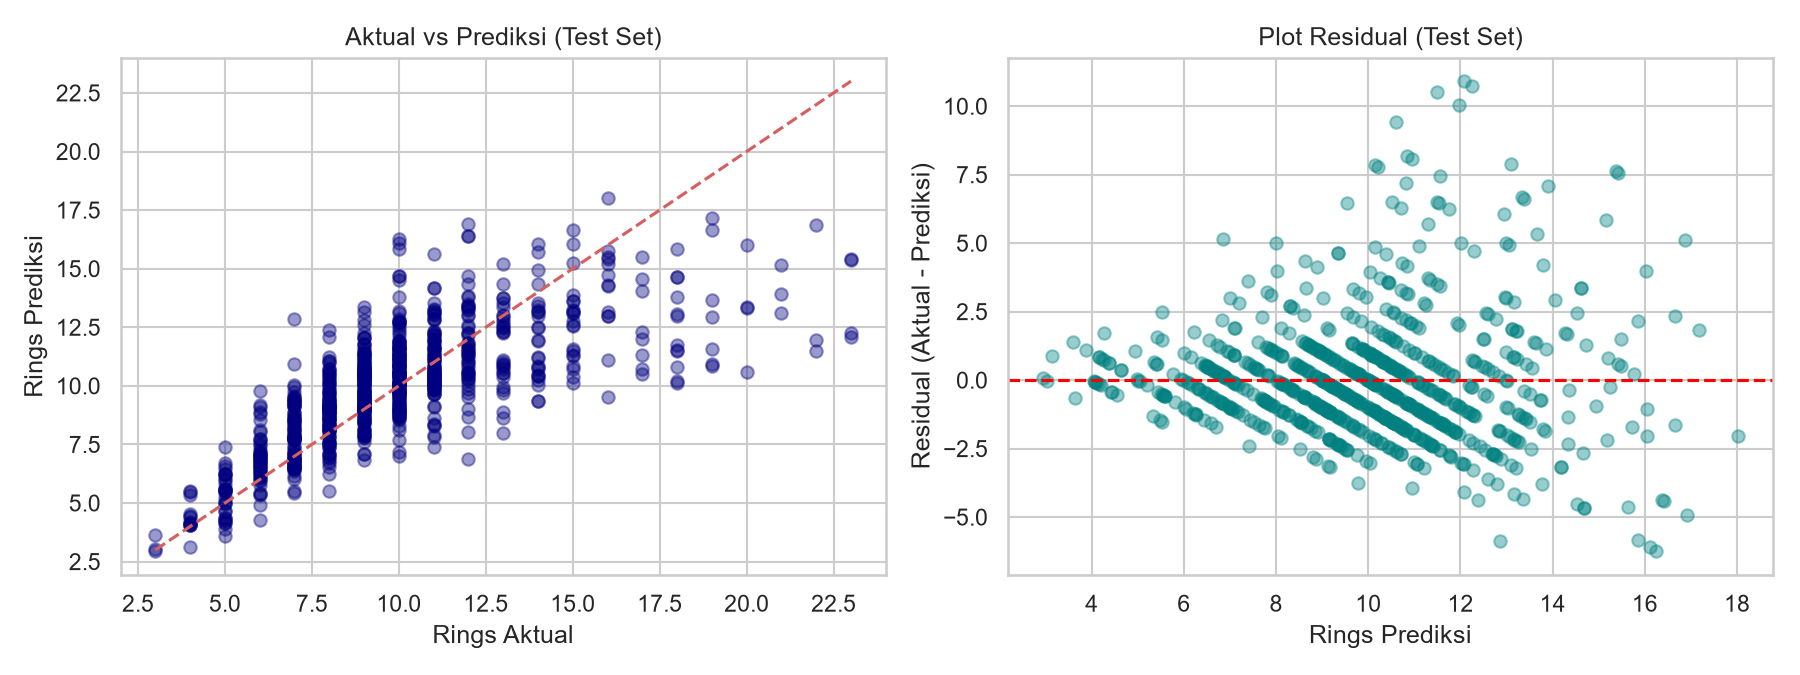
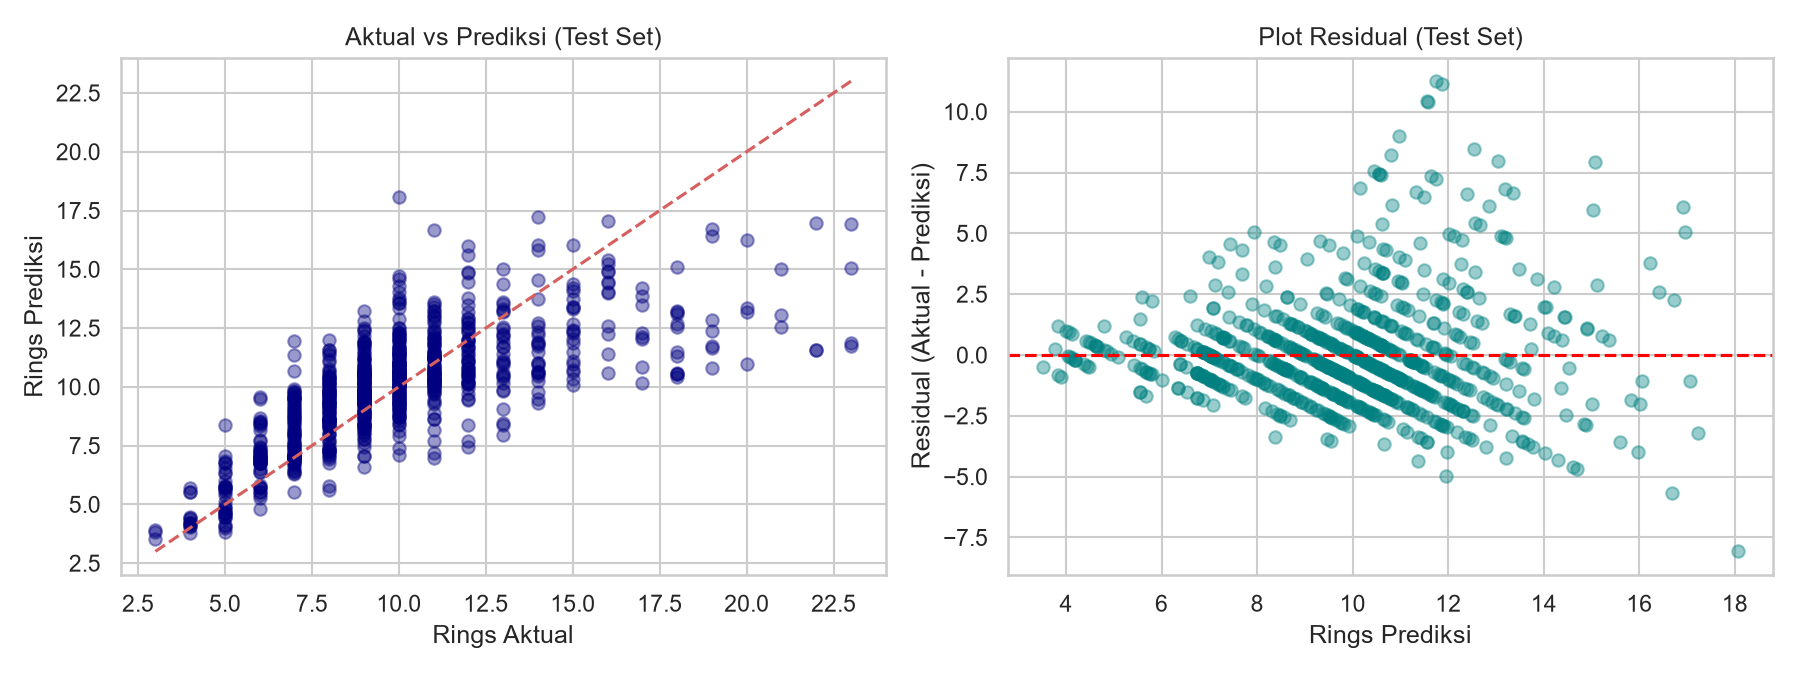
Update modular loader/preprocessor, model artifact, evidence plots, and docs

diff --git a/src/analysis/preprocess.py b/src/analysis/preprocess.py
@@ -1,79 +1,64 @@
-import pandas as pd
 from sklearn.compose import ColumnTransformer
 from sklearn.impute import SimpleImputer
 from sklearn.pipeline import Pipeline
 from sklearn.preprocessing import OneHotEncoder, StandardScaler
 
-NAMA_KOLOM = [
-    "Sex",
-    "Length",
-    "Diameter",
-    "Height",
-    "Whole weight",
-    "Shucked weight",
-    "Viscera weight",
-    "Shell weight",
-    "Rings",
-]
 
+def build_preprocessor(num_cols, cat_cols):
+    """
+    Membuat preprocessing untuk fitur numerik
+    dan kategorikal pada dataset Abalone.
 
-def ambil_data_manual():
-    lokasi_file = None
-    try:
-        from google.colab import files
-        diupload = files.upload()
-        if diupload:
-            lokasi_file = list(diupload.keys())[0]
-    except ImportError:
-        import tkinter as tk
-        from tkinter import filedialog
-        root = tk.Tk()
-        root.withdraw()
-        root.attributes("-topmost", True)
-        lokasi_file = filedialog.askopenfilename(
-            title="Pilih file dataset Abalone",
-            filetypes=[
-                ("File Dataset", "*.xlsx *.xls *.csv *.data"),
-                ("Semua File", "*.*"),
-            ],
+    Parameters
+    ----------
+    num_cols : list
+        Daftar nama kolom numerik.
+
+    cat_cols : list
+        Daftar nama kolom kategorikal.
+
+    Returns
+    -------
+    ColumnTransformer
+        Objek preprocessing untuk digunakan
+        dalam Pipeline machine learning.
+    """
+
+    transformers = []
+
+    # Preprocessing fitur numerik
+    if num_cols:
+        numeric_transformer = Pipeline(
+            steps=[
+                ("imputer", SimpleImputer(strategy="median")),
+                ("scaler", StandardScaler()),
+            ]
         )
-        root.destroy()
 
-    if not lokasi_file:
-        raise FileNotFoundError("File belum dipilih.")
+        transformers.append(
+            ("numeric", numeric_transformer, num_cols)
+        )
 
-    if lokasi_file.endswith((".xlsx", ".xls")):
-        xls = pd.ExcelFile(lokasi_file)
-        sheet = "Dataset_Abalone" if "Dataset_Abalone" in xls.sheet_names else xls.sheet_names[0]
-        df = pd.read_excel(lokasi_file, sheet_name=sheet)
-    elif lokasi_file.endswith(".csv"):
-        df = pd.read_csv(lokasi_file)
-    else:
-        df = pd.read_csv(lokasi_file, header=None, names=NAMA_KOLOM)
+    # Preprocessing fitur kategorikal
+    if cat_cols:
+        categorical_transformer = Pipeline(
+            steps=[
+                ("imputer", SimpleImputer(strategy="most_frequent")),
+                ("encoder", OneHotEncoder(handle_unknown="ignore")),
+            ]
+        )
 
-    df = df.rename(columns={c: c.strip() for c in df.columns})
-    return df
+        transformers.append(
+            ("categorical", categorical_transformer, cat_cols)
+        )
 
+    if not transformers:
+        raise ValueError(
+            "Daftar fitur numerik dan kategorikal tidak boleh kosong."
+        )
 
-def buat_preprocessor(fitur):
-    kolom_kategori = [k for k in ["Sex"] if k in fitur]
-    kolom_angka = [k for k in fitur if k not in kolom_kategori]
+    preprocessor = ColumnTransformer(
+        transformers=transformers
+    )
 
-    pipa_angka = Pipeline(steps=[
-        ("imputer", SimpleImputer(strategy="median")),
-        ("scaler", StandardScaler()),
-    ])
-
-    pipa_kategori = Pipeline(steps=[
-        ("imputer", SimpleImputer(strategy="most_frequent")),
-        ("ohe", OneHotEncoder(handle_unknown="ignore")),
-    ])
-
-    daftar = []
-    if kolom_angka:
-        daftar.append(("angka", pipa_angka, kolom_angka))
-    if kolom_kategori:
-        daftar.append(("kategori", pipa_kategori, kolom_kategori))
-
-    preprocessor = ColumnTransformer(transformers=daftar)
-    return preprocessor, kolom_angka, kolom_kategori
+    return preprocessor

diff --git a/src/analysis/train.py b/src/analysis/train.py
@@ -1,5 +1,6 @@
 import json
 import os
+import sys
 import joblib
 import numpy as np
 from sklearn.ensemble import GradientBoostingRegressor, RandomForestRegressor
@@ -8,7 +9,12 @@ from sklearn.metrics import mean_absolute_error, r2_score, root_mean_squared_err
 from sklearn.model_selection import KFold, cross_validate, train_test_split
 from sklearn.pipeline import Pipeline
 
-from preprocess import ambil_data_manual, buat_preprocessor
+BASE_DIR = os.path.dirname(os.path.abspath(__file__))
+if BASE_DIR not in sys.path:
+    sys.path.insert(0, BASE_DIR)
+
+from data_loader import load_data
+from preprocess import build_preprocessor
 
 
 def hitung_metrik(y_true, y_pred):
@@ -27,7 +33,8 @@ def main():
     os.makedirs("src/app/model", exist_ok=True)
     os.makedirs("docs/evidence", exist_ok=True)
 
-    df = ambil_data_manual()
+    lokasi_data = os.path.join(root_dir, "Dataset_Abalone_Lengkap.xlsx")
+    df = load_data(lokasi_data)
     target = "Rings"
     X = df.drop(columns=[target])
     y = df[target]
@@ -36,7 +43,8 @@ def main():
         X, y, test_size=0.20, random_state=42
     )
 
-    _, kolom_angka, kolom_kategori = buat_preprocessor(list(X.columns))
+    kolom_kategori = ["Sex"]
+    kolom_angka = [c for c in X.columns if c not in kolom_kategori]
 
     baseline_val = float(y_train.mean())
     pred_baseline = np.full(shape=len(y_test), fill_value=baseline_val)
@@ -58,7 +66,7 @@ def main():
 
     for nama, estimator in model_kandidat.items():
         pipa = Pipeline(steps=[
-            ("preprocess", buat_preprocessor(list(X.columns))[0]),
+            ("preprocess", build_preprocessor(kolom_angka, kolom_kategori)),
             ("model", estimator),
         ])
         hasil_cv = cross_validate(

diff --git a/src/analysis/data_loader.py b/src/analysis/data_loader.py
@@ -1,0 +1,35 @@
+import os
+import pandas as pd
+
+NAMA_KOLOM = [
+    "Sex",
+    "Length",
+    "Diameter",
+    "Height",
+    "Whole weight",
+    "Shucked weight",
+    "Viscera weight",
+    "Shell weight",
+    "Rings",
+]
+
+
+def load_data(lokasi_file):
+    if not lokasi_file or not os.path.exists(lokasi_file):
+        raise FileNotFoundError(f"File dataset tidak ditemukan: {lokasi_file}")
+
+    if lokasi_file.endswith((".xlsx", ".xls")):
+        xls = pd.ExcelFile(lokasi_file)
+        sheet = (
+            "Dataset_Abalone"
+            if "Dataset_Abalone" in xls.sheet_names
+            else xls.sheet_names[0]
+        )
+        df = pd.read_excel(lokasi_file, sheet_name=sheet)
+    elif lokasi_file.endswith(".csv"):
+        df = pd.read_csv(lokasi_file)
+    else:
+        df = pd.read_csv(lokasi_file, header=None, names=NAMA_KOLOM)
+
+    df = df.rename(columns={c: c.strip() for c in df.columns})
+    return df

diff --git a/docs/analysis-report.md b/docs/analysis-report.md
@@ -1,35 +1,67 @@
 # Laporan Analisis dan Pemodelan Prediksi Rings Abalone
 
 ## 1. Tujuan, Sumber Data, dan Ringkasan Dataset
-- **Rumusan masalah**: Memprediksi jumlah cincin cangkang abalone (`Rings`) sebagai variabel respon kuantitatif berdasarkan ukuran fisik dan bobot tubuh abalone.
-- **Sumber data dan akses**: Data bersumber dari dataset Abalone (`Dataset_Abalone_Lengkap.xlsx`, merujuk pada UCI Machine Learning Repository Abalone Dataset berlisensi CC BY 4.0) yang diakses pada 21 November 2026 melalui `https://archive.ics.uci.edu/dataset/1/abalone` dan berkas lokal proyek.
-- **Deskripsi dan ringkasan EDA**: Dataset terdiri atas **4.177 baris** dan **9 kolom** tanpa nilai hilang maupun baris duplikat. Berdasarkan eksplorasi awal, terdapat 2 baris dengan nilai `Height = 0`, sedangkan korelasi linear tertinggi terhadap `Rings` ditunjukkan oleh `Shell weight` sebesar **0,63**.
-- **Perlakuan `Height = 0` dan skala data**: Dua baris dengan `Height = 0` hanya mencakup 2 dari 4.177 baris (sekitar **0,05%**), sehingga dibiarkan apa adanya karena proporsinya kecil dan tidak memberikan dampak besar pada pemodelan. Selain itu, nilai fitur kontinu pada dataset mengikuti skala standar UCI (sudah dibagi `200`), sehingga data yang dikirim ke API juga perlu menggunakan skala yang sama agar perbandingan dan prediksi tetap konsisten.
+- **Rumusan masalah**: Membangun model regresi untuk memprediksi jumlah cincin cangkang abalone (`Rings`) sebagai variabel respon kuantitatif berdasarkan karakteristik jenis kelamin dan ukuran fisik tubuh abalone. Perkiraan umur biologis abalone umumnya dihitung sebagai $\text{Rings} + 1{,}5$ tahun.
+- **Sumber data dan akses**: Data bersumber dari dataset Abalone (`Dataset_Abalone_Lengkap.xlsx`, merujuk pada *UCI Machine Learning Repository — Abalone Dataset* berlisensi CC BY 4.0) yang diakses pada 21 November 2026 melalui `https://archive.ics.uci.edu/dataset/1/abalone` serta berkas lokal pada direktori utama repositori.
+- **Struktur dan ringkasan EDA**:
+  - Dataset terdiri atas **4.177 baris** pengamatan dan **9 kolom**, terdiri dari **1 variabel target** (`Rings`, bilangan bulat) dan **8 variabel prediktor**:
+    - **Fitur kategorikal (1)**: `Sex` (`M` = *Male*, `F` = *Female*, `I` = *Infant*).
+    - **Fitur numerik (7)**: `Length`, `Diameter`, `Height`, `Whole weight`, `Shucked weight`, `Viscera weight`, dan `Shell weight`.
+  - Tidak ditemukan nilai hilang (*missing values*) maupun baris duplikat pada dataset mentah.
+  - Korelasi linear (*Pearson*) tertinggi terhadap variabel target `Rings` ditunjukkan oleh **`Shell weight` sebesar `0,63`**, diikuti oleh fitur dimensi fisik dan bobot lainnya yang juga berkorelasi positif kuat antar-prediktor (indikasi multikolinearitas tinggi pada fitur ukuran dan berat).
+- **Perlakuan `Height = 0` dan skala data**:
+  - Berdasarkan eksplorasi awal pada `eda_v2.ipynb`, terdapat **2 baris** dengan nilai `Height = 0`. Baris tersebut tetap dipertahankan apa adanya karena hanya mencakup 2 dari 4.177 baris (sekitar **0,05%**), sehingga proporsinya sangat kecil dan tidak memberikan dampak signifikan terhadap parameter maupun performa model.
+  - Seluruh fitur kontinu pada dataset UCI berada pada skala yang telah dinormalisasi/dibagi `200`. Oleh karena itu, data input yang dikirim ke layanan API wajib menggunakan skala serta nama kolom yang persis sama dengan skema pada `src/app/model/features.json` dan `docs/interface-contract.md`.
 
 ## 2. Pembagian Data dan Pencegahan Data Leakage
-- Dataset dibagi menjadi data latih (`train`) dan data uji (`test`) dengan proporsi **80:20** (`random_state=42`), dan data uji tidak dipakai selama proses pemilihan model maupun penentuan alur akhir.
-- Seluruh tahapan praproses (`SimpleImputer`, `StandardScaler`, dan `OneHotEncoder` di dalam `ColumnTransformer`) digabung ke dalam `Pipeline` bersama model dengan pengaturan `handle_unknown="ignore"`, sementara `Rings` dipisahkan agar tidak ikut menjadi fitur.
+- **Skema pemisahan data**: Dataset dipisahkan secara acak menjadi **data latih (*train set*) sebesar 80% (`3.341` baris)** dan **data uji (*test set*) sebesar 20% (`836` baris)** menggunakan `train_test_split(..., test_size=0.20, random_state=42)`. Data uji dikunci sepenuhnya dan tidak pernah dilibatkan dalam proses eksplorasi lanjutan, pemilihan fitur, praproses, maupun seleksi model.
+- **Integrasi `Pipeline` dan `ColumnTransformer`**:
+  - Seluruh langkah praproses disusun secara modular di dalam `build_preprocessor(num_cols, cat_cols)` (`src/analysis/preprocess.py`) yang mengembalikan objek `ColumnTransformer`:
+    - **Cabang numerik (`num_cols`)**: `SimpleImputer(strategy="median")` diikuti `StandardScaler()`.
+    - **Cabang kategorikal (`cat_cols`)**: `SimpleImputer(strategy="most_frequent")` diikuti `OneHotEncoder(handle_unknown="ignore")`.
+  - Objek `ColumnTransformer` dibungkus bersama estimator ke dalam `sklearn.pipeline.Pipeline`, sehingga parameter imputasi dan penskalaan hanya dihitung (*fit*) pada *fold* pelatihan di setiap iterasi *cross-validation* dan pada `X_train` saat pelatihan akhir. Variabel target `Rings` dipisahkan sejak awal agar tidak terjadi kebocoran fitur.
 
 ## 3. Baseline dan Seleksi Model Kandidat
-- **Baseline**: Prediksi rata-rata `Rings` dari data latih dipakai sebagai patokan dasar (*benchmark*) untuk menilai peningkatan performa model regresi.
+- **Model *baseline***: Sebagai patokan dasar (*benchmark*), digunakan model konstan sederhana berupa nilai rata-rata `Rings` dari data latih (`y_train.mean()`) untuk memprediksi seluruh pengamatan pada data uji.
 - **Evaluasi validasi silang (5-fold CV pada data latih)**:
-  - `Gradient Boosting`: RMSE CV `2.1436`, MAE CV `1.5180`.
-  - `Random Forest`: RMSE CV `2.1548`.
-  - `Ridge`: RMSE CV `2.2287`.
-- `Gradient Boosting` dipilih karena mencatat galat validasi silang paling rendah di antara seluruh kandidat, kemudian dilatih ulang pada seluruh data latih sebelum diuji ke *test set*.
+  - Tiga model regresi kandidat dibandingkan menggunakan `KFold(n_splits=5, shuffle=True, random_state=42)` dengan kriteria utama RMSE terendah:
+
+  | Model Kandidat | MAE (5-Fold CV) | RMSE (5-Fold CV) | R² (5-Fold CV) |
+  | :--- | :---: | :---: | :---: |
+  | **Gradient Boosting (`GradientBoostingRegressor`)** | **1,5180** | **2,1436** | **0,5527** |
+  | Random Forest (`RandomForestRegressor`, `n_estimators=200`) | 1,5463 | 2,1548 | 0,5480 |
+  | Ridge Regression (`Ridge`, `alpha=1.0`) | 1,5994 | 2,2287 | 0,5167 |
+
+  *(Catatan: nilai MAE dan RMSE pada tabel di atas merupakan ringkasan langsung dari `docs/evidence/metrics.json`; nilai R² CV mengikuti log ringkasan validasi silang pada `metrics.json` saat `train.py` dijalankan).*
+- **Alasan pemilihan model**: `Gradient Boosting` dipilih sebagai model terbaik karena menghasilkan nilai **RMSE CV terendah (`2,1436`)** dan **MAE CV terendah (`1,5180`)** dibandingkan `Random Forest` dan `Ridge Regression`. Model terpilih kemudian dilatih ulang pada seluruh data latih (`3.341` baris) sebelum dievaluasi pada data uji.
 
 ## 4. Hasil Evaluasi pada Test Set
-- **Model terpilih**: `Gradient Boosting` (`GradientBoostingRegressor`), selaras dengan artefak pada `model.joblib` dan catatan metrik di `metrics.json`.
-- **Performa pada test set**: MAE `1.5761`, RMSE `2.2480`, dan R² `0.5332`.
-- **Perbandingan dengan baseline**: `Gradient Boosting` mengungguli *baseline* pada data uji dengan menurunkan galat dari MAE `2.3848` menjadi `1.5761` dan RMSE `3.2906` menjadi `2.2480`, sekaligus menaikkan R² dari `-0.0003` menjadi `0.5332`. Kedekatan nilai MAE *test set* (`1.5761`) dengan MAE *cross-validation* (`1.5180`) juga menunjukkan tidak ada indikasi *overfitting* yang mengkhawatirkan.
+- **Spesifikasi model terpilih**: `GradientBoostingRegressor(random_state=42)` dalam satu `Pipeline` utuh bersama `ColumnTransformer`, disimpan sebagai `src/app/model/model.joblib` menggunakan lingkungan `Python` dan `scikit-learn==1.9.1`.
+- **Perbandingan *Baseline* vs Model Terpilih pada *Test Set* (`836` baris)**:
 
-## 5. Interpretasi Plot dan Keterbatasan
-- Pada plot **Aktual vs Prediksi** dan **Plot Residual** (`docs/evidence/evaluasi_test_set.png`), pola prediksi mengikuti arah diagonal secara umum, namun model cenderung menaksir terlalu rendah (*underpredict*) pada pengamatan dengan `Rings` yang tinggi.
-- Pola garis-garis miring pada plot residual merupakan hal yang wajar karena `Rings` berbentuk bilangan bulat.
-- **Keterbatasan**: Model menghasilkan taksiran numerik dengan galat yang lebih terasa pada nilai `Rings` tinggi, sehingga keakuratan hasil prediksi bergantung pada ketelitian pengukuran input serta kesesuaian distribusi data baru terhadap data latih.
+  | Model / Pendekatan | MAE (*Test*) | RMSE (*Test*) | R² (*Test*) | Keterangan |
+  | :--- | :---: | :---: | :---: | :--- |
+  | *Baseline* (Rata-rata `y_train`) | 2,3848 | 3,2906 | -0,0003 | Patokan dasar tanpa fitur prediktor |
+  | **Gradient Boosting (Model Terpilih)** | **1,5761** | **2,2480** | **0,5332** | **Penurunan galat signifikan di seluruh metrik** |
+
+- **Analisis kuantitatif hasil evaluasi**:
+  - Dibandingkan *baseline*, `Gradient Boosting` berhasil menurunkan **MAE sebesar `0,8087` cincin** (turun sekitar **33,9%**, dari `2,3848` menjadi `1,5761`) dan menurunkan **RMSE sebesar `1,0426` cincin** (turun sekitar **31,7%**, dari `3,2906` menjadi `2,2480`).
+  - Nilai koefisien determinasi **R² meningkat dari `-0,0003` menjadi `0,5332`**, yang berarti sekitar **53,32%** keragaman jumlah cincin abalone pada data uji mampu dijelaskan oleh model.
+  - Selisih yang tipis antara galat validasi silang (`MAE CV = 1,5180`; `RMSE CV = 2,1436`) dan galat pada *test set* (`MAE Test = 1,5761`; `RMSE Test = 2,2480`) menunjukkan kemampuan generalisasi yang stabil tanpa indikasi *overfitting* yang mengkhawatirkan.
+
+## 5. Analisis Residual, Interpretasi Plot, dan Keterbatasan
+- **Evaluasi visual (`docs/evidence/evaluasi_test_set.png`)**:
+  - **Plot Aktual vs Prediksi**: Sebaran titik prediksi mengikuti garis diagonal ideal ($y = \hat{y}$) dengan baik pada rentang menengah (`Rings` sekitar 6 hingga 13), di mana sebagian besar pengamatan terkonsentrasi. Namun, pada pengamatan dengan nilai `Rings` aktual yang tinggi (di atas 15), titik prediksi cenderung berada di bawah garis diagonal (*underprediction*).
+  - **Plot Residual terhadap Nilai Prediksi & Distribusi Residual**:
+    - Sebaran residual ($e_i = y_i - \hat{y}_i$) terpusat di sekitar nol pada rentang prediksi rendah hingga menengah, tetapi menunjukkan pola melebar (*heteroskedastisitas*) dan condong positif pada `Rings` tinggi akibat kecenderungan model menaksir lebih rendah untuk abalone berusia tua.
+    - Munculnya pola garis-garis miring sejajar pada plot residual merupakan karakteristik alami yang wajar karena variabel respon `Rings` bersifat diskrit (bilangan bulat), sedangkan keluaran `GradientBoostingRegressor` berupa bilangan riil kontinu.
+- **Keterbatasan model dan implikasi operasional**:
+  - Ukuran fisik dan bobot tubuh abalone cenderung melambat pertumbuhannya setelah mencapai fase dewasa, sehingga fitur morfologi saja kurang sensitif untuk membedakan abalone yang sangat tua (`Rings > 15`).
+  - Keluaran prediksi berupa angka kontinu (misalnya `9,83` untuk sampel uji standar), sehingga interpretasi umur biologis bersifat estimasi aproksimatif.
+  - Keandalan prediksi saat *deployment* bergantung pada konsistensi skala input (skala UCI dibagi `200`), kelengkapan nama fitur persis sesuai `features.json`, serta kesesuaian versi `scikit-learn==1.9.1`.
 
 ## 6. Reproduksi Hasil
-1. Pastikan posisi kerja berada di *branch* `main` (setelah PR di-*merge*) pada direktori utama repositori.
-2. Pasang *library* yang diperlukan:
+1. Pastikan posisi kerja berada di *branch* `main` (setelah PR di-*merge*) pada direktori utama repositori (`uas-komputasi-awan-kelompok-2`).
+2. Pasang *library* yang diperlukan (pastikan versi `scikit-learn` sesuai dengan `requirements.txt` proyek, yaitu `1.9.1`):
    ```powershell
    pip install pandas numpy scikit-learn==1.9.1 matplotlib seaborn openpyxl joblib

diff --git a/docs/role-log.md b/docs/role-log.md
@@ -2,5 +2,6 @@
 
 | Tanggal | Nama | Layer | Uraian Pekerjaan | Artefak / Output | Review / Kontribusi Lintas Layer | Referensi Commit / PR |
 | :--- | :--- | :--- | :--- | :--- | :--- | :--- |
-| 2026-11-21 | Syabilla | Analysis & Modeling | Melakukan eksplorasi data pada `eda_v2.ipynb`, menyempurnakan alur praproses dan pelatihan pada `preprocess.py` serta `train.py`, melatih model, serta menyimpan artefak dan grafik evaluasi | `src/analysis/eda_v2.ipynb`, `src/analysis/preprocess.py`, `src/analysis/train.py`, `src/app/model/model.joblib`, `src/app/model/features.json`, `docs/evidence/metrics.json`, `docs/evidence/evaluasi_test_set.png` | Menyiapkan `model.joblib`, `features.json`, serta logika praproses pada `preprocess.py` agar selaras untuk kebutuhan layer API | `dfb285b`, `37172d3`, PR #1 |
-| 2026-11-21 | Syabilla | Analysis & Documentation | Menyusun dan merevisi laporan analisis (`analysis-report.md`), kontrak antarmuka (`interface-contract.md`), log peran (`role-log.md`), dan catatan penggunaan AI (`ai-disclosure.md`) | `docs/analysis-report.md`, `docs/interface-contract.md`, `docs/role-log.md`, `docs/ai-disclosure.md` | Menyusun kontrak antarmuka (`interface-contract.md`) serta menyampaikan spesifikasi nama fitur dan versi `scikit-learn` (`1.9.1`) kepada tim API | `2e14ca1`, `7c4c84b`, PR #1 (`analysis-abalone` -> `main`) |
+| 2026-11-21 | Syabilla | Analysis & Modeling | Melakukan eksplorasi data pada `eda_v2.ipynb`, memisahkan pembacaan dataset (`load_data`) ke `data_loader.py`, menyesuaikan `preprocess.py` (`build_preprocessor`) sesuai panduan, menyempurnakan `train.py`, melatih model `GradientBoostingRegressor` (`MAE: 1.5761`, `RMSE: 2.2480`, `R2: 0.5332`), serta menyimpan artefak dan grafik evaluasi | `src/analysis/eda_v2.ipynb`, `src/analysis/data_loader.py`, `src/analysis/preprocess.py`, `src/analysis/train.py`, `src/app/model/model.joblib`, `src/app/model/features.json`, `docs/evidence/metrics.json`, `docs/evidence/evaluasi_test_set.png` | Menyiapkan `model.joblib` (terverifikasi dengan `scikit-learn==1.9.1` dan prediksi contoh ~`9,83`), `features.json`, `data_loader.py`, serta `preprocess.py` (`build_preprocessor`) agar selaras dengan panduan dan kebutuhan layer API | `dfb285b`, `37172d3`, PR #1 (`analysis-abalone` -> `main`) |
+| 2026-11-21 | Syabilla | Analysis & Documentation | Menyusun dan merevisi laporan analisis (`analysis-report.md`, termasuk perbandingan *baseline* vs model kandidat/terbaik, analisis residual, dan langkah reproduksi), kontrak antarmuka (`interface-contract.md`), log peran (`role-log.md`), dan catatan penggunaan AI (`ai-disclosure.md`) | `docs/analysis-report.md`, `docs/interface-contract.md`, `docs/role-log.md`, `docs/ai-disclosure.md` | Menyusun draf kontrak antarmuka (`interface-contract.md`) serta mengoordinasikan spesifikasi skema fitur (`features.json`), versi `scikit-learn` (`1.9.1`), dan pembacaan data via `load_data` kepada tim | `2e14ca1`, `7c4c84b`, `cb89252`, `71bd187`, `ef746a9`, PR #1 (`analysis-abalone` -> `main`) |
+| *(Menyusul)* | *(Reviewer / Tim)* | Cross-Layer Review | Melakukan *review* PR #1, pengujian integrasi dengan API, serta pencatatan hasil *cross-review* lintas *layer* | `cross-review.md`, pembaruan `docs/role-log.md` | Menyelaraskan persetujuan akhir kontrak antarmuka (`interface-contract.md`) dan validasi pemanggilan `model.joblib` oleh layanan API | PR #1 Merge / `cross-review.md` 
